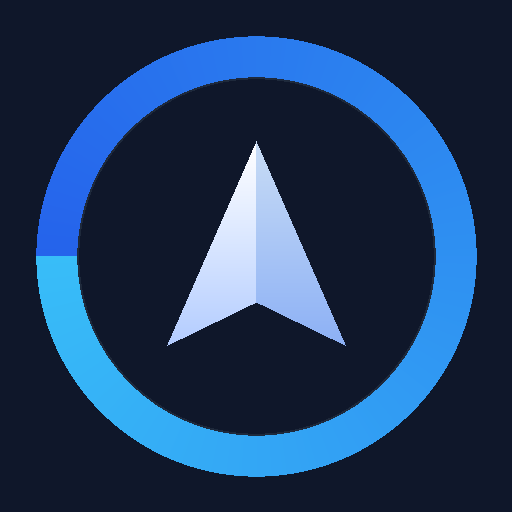
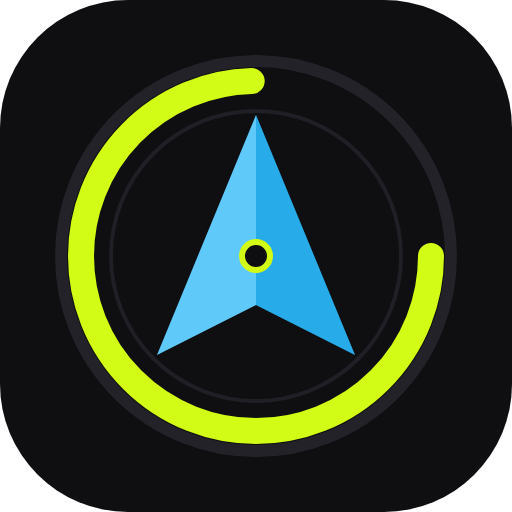
fix: resolve geocoding search failures, add Nominatim proxy, fix prematurely rendered no-results state, and update PWA assets

diff --git a/src/utils/osrm.js b/src/utils/osrm.js
@@ -1,55 +1,110 @@
 // OSRM Routing & Geocoding Service
 
 /**
- * Search locations using OpenStreetMap Nominatim or Photon
+ * Search locations using OpenStreetMap Nominatim and Photon with Indonesian fallback
  */
-export const searchPlaces = async (query) => {
+export const searchPlaces = async (query, userPosition = null) => {
   if (!query || query.trim().length < 2) return [];
 
-  try {
-    // Photon is fast and has generous CORS policies
-    const response = await fetch(
-      `https://photon.komoot.io/api/?q=${encodeURIComponent(query)}&limit=5&lang=id`,
-      { signal: AbortSignal.timeout(6000) }
-    );
-    if (!response.ok) throw new Error("Search failed");
-    const data = await response.json();
+  const rawQuery = query.trim();
+  const cleanQuery = rawQuery.replace(/^(perumahan|komplek|kompleks|cluster|residence)\s+/i, "").trim();
 
-    return (data.features || []).map((f) => {
-      const p = f.properties || {};
-      const name = p.name || p.street || "Lokasi";
-      const details = [p.district, p.city, p.state, p.country].filter(Boolean).join(", ");
-      const [lon, lat] = f.geometry.coordinates;
-      return {
-        id: `${lat}-${lon}-${name}`,
-        name: name,
-        description: details || name,
-        lat: lat,
-        lng: lon,
-      };
-    });
-  } catch (error) {
-    console.warn("Photon search failed, falling back to Nominatim:", error);
+  // Try multiple variations if needed (e.g. "patraland" -> "patra land")
+  const queryCandidates = [rawQuery];
+  if (cleanQuery && cleanQuery !== rawQuery) {
+    queryCandidates.push(cleanQuery);
+  }
+  // If single long word with 'land' suffix, also add space variant
+  if (!rawQuery.includes(" ") && rawQuery.toLowerCase().endsWith("land")) {
+    const spaced = rawQuery.slice(0, -4) + " land";
+    if (!queryCandidates.includes(spaced)) queryCandidates.push(spaced);
+  }
+
+  for (const q of queryCandidates) {
+    // 1. Try Nominatim via local Vite proxy (passes User-Agent and avoids CORS)
+    try {
+      const proxyRes = await fetch(
+        `/api/nominatim/search?format=json&q=${encodeURIComponent(
+          q
+        )}&limit=6&countrycodes=id&addressdetails=1`,
+        { signal: AbortSignal.timeout(5000) }
+      );
+      if (proxyRes.ok) {
+        const data = await proxyRes.json();
+        if (Array.isArray(data) && data.length > 0) {
+          return data.map((item) => ({
+            id: `nom-${item.place_id}`,
+            name: item.display_name.split(",")[0],
+            description: item.display_name,
+            lat: parseFloat(item.lat),
+            lng: parseFloat(item.lon),
+          }));
+        }
+      }
+    } catch {
+      // Proxy failed or not on dev server, proceed to external endpoints
+    }
+
+    // 2. Try direct Nominatim
     try {
       const nomRes = await fetch(
         `https://nominatim.openstreetmap.org/search?format=json&q=${encodeURIComponent(
-          query
-        )}&limit=5&countrycodes=id`,
-        { signal: AbortSignal.timeout(6000) }
+          q
+        )}&limit=6&countrycodes=id&addressdetails=1`,
+        { signal: AbortSignal.timeout(5000) }
       );
-      const nomData = await nomRes.json();
-      return nomData.map((item) => ({
-        id: item.place_id,
-        name: item.display_name.split(",")[0],
-        description: item.display_name,
-        lat: parseFloat(item.lat),
-        lng: parseFloat(item.lon),
-      }));
-    } catch (e) {
-      console.error("All geocoding services failed:", e);
-      return [];
+      if (nomRes.ok) {
+        const nomData = await nomRes.json();
+        if (Array.isArray(nomData) && nomData.length > 0) {
+          return nomData.map((item) => ({
+            id: `nom-${item.place_id}`,
+            name: item.display_name.split(",")[0],
+            description: item.display_name,
+            lat: parseFloat(item.lat),
+            lng: parseFloat(item.lon),
+          }));
+        }
+      }
+    } catch {
+      // Continue to Photon
+    }
+
+    // 3. Try Photon Komoot (without invalid lang parameter, bounded to Indonesia)
+    try {
+      let photonUrl = `https://photon.komoot.io/api/?q=${encodeURIComponent(
+        q
+      )}&limit=6&bbox=95.0,-11.0,141.0,6.0`;
+      if (userPosition && userPosition.lat && userPosition.lng) {
+        photonUrl += `&lat=${userPosition.lat}&lon=${userPosition.lng}`;
+      }
+
+      const photonRes = await fetch(photonUrl, { signal: AbortSignal.timeout(5000) });
+      if (photonRes.ok) {
+        const pData = await photonRes.json();
+        if (pData.features && pData.features.length > 0) {
+          return pData.features.map((f) => {
+            const p = f.properties || {};
+            const name = p.name || p.street || "Lokasi";
+            const details = [p.street, p.district, p.city, p.state, p.country]
+              .filter(Boolean)
+              .join(", ");
+            const [lon, lat] = f.geometry.coordinates;
+            return {
+              id: `pho-${lat}-${lon}-${name}`,
+              name: name,
+              description: details || name,
+              lat: lat,
+              lng: lon,
+            };
+          });
+        }
+      }
+    } catch {
+      // Continue next query candidate
     }
   }
+
+  return [];
 };
 
 /**

diff --git a/src/components/SearchModal.jsx b/src/components/SearchModal.jsx
@@ -7,12 +7,14 @@ export default function SearchModal({
   isOpen,
   onClose,
   onSelectDestination,
+  userPosition = null,
   lang = "id",
   theme = "light",
 }) {
   const [query, setQuery] = useState("");
   const [results, setResults] = useState([]);
   const [loading, setLoading] = useState(false);
+  const [hasSearched, setHasSearched] = useState(false);
 
   const isDark = theme === "dark";
 
@@ -32,7 +34,8 @@ export default function SearchModal({
     if (!query.trim()) return;
 
     setLoading(true);
-    const data = await searchPlaces(query);
+    setHasSearched(true);
+    const data = await searchPlaces(query, userPosition);
     setResults(data);
     setLoading(false);
   };
@@ -63,7 +66,10 @@ export default function SearchModal({
               type="text"
               autoFocus
               value={query}
-              onChange={(e) => setQuery(e.target.value)}
+              onChange={(e) => {
+                setQuery(e.target.value);
+                setHasSearched(false);
+              }}
               placeholder={t("searchPlaceholder", lang)}
               className={`w-full rounded-xl pl-9 pr-3 py-2.5 text-sm border transition ${
                 isDark
@@ -98,7 +104,7 @@ export default function SearchModal({
 
         {/* Results List */}
         <div
-          className={`max-h-60 overflow-y-auto space-y-1 divide-y ${
+          className={`max-h-64 overflow-y-auto space-y-1 divide-y ${
             isDark ? "divide-[#27272e]" : "divide-slate-100"
           }`}
         >
@@ -136,18 +142,29 @@ export default function SearchModal({
                 </div>
               </button>
             ))
-          ) : query && !loading ? (
-            <p
-              className={`text-center text-xs py-6 ${
-                isDark ? "text-zinc-400" : "text-slate-500"
-              }`}
-            >
-              {t("noPlacesFound", lang)}
-            </p>
+          ) : hasSearched && !loading ? (
+            <div className="py-5 px-3 text-center space-y-2">
+              <p
+                className={`text-xs font-semibold ${
+                  isDark ? "text-zinc-300" : "text-slate-700"
+                }`}
+              >
+                {t("noPlacesFound", lang)}
+              </p>
+              <p
+                className={`text-[11px] leading-relaxed ${
+                  isDark ? "text-zinc-400" : "text-slate-500"
+                }`}
+              >
+                {lang === "en"
+                  ? "Tip: Private housing complexes may not yet be tagged in OpenStreetMap. Try searching by main road, subdistrict name, or tap directly on the map."
+                  : "Tips: Kompleks perumahan baru mungkin belum ditandai di OpenStreetMap. Coba cari nama jalan utama, kelurahan/kecamatan terdekat, atau langsung ketuk titik di peta."}
+              </p>
+            </div>
           ) : (
             <div
               className={`text-center py-6 text-xs ${
-                isDark ? "text-slate-400" : "text-slate-500"
+                isDark ? "text-zinc-400" : "text-slate-500"
               }`}
             >
               <p>{t("searchHint", lang)}</p>

diff --git a/index.html b/index.html
@@ -11,7 +11,7 @@
     <meta name="apple-mobile-web-app-title" content="Eggel Nav" />
     <meta name="application-name" content="Eggel Nav" />
     <meta name="mobile-web-app-capable" content="yes" />
-    <meta name="theme-color" content="#0f172a" />
+    <meta name="theme-color" content="#0f0f12" />
     <meta
       name="description"
       content="Turn-by-turn motorcycle navigation on Eggel Tempo 4 Active smartwatch via Telegram and iOS ANCS"
@@ -23,7 +23,7 @@
 
     <title>Eggel Nav - Smartwatch Navigation</title>
   </head>
-  <body class="bg-slate-900 text-white select-none overscroll-none">
+  <body class="bg-[#0f0f12] text-white select-none overscroll-none">
     <div id="root"></div>
     <script type="module" src="/src/main.jsx"></script>
   </body>

diff --git a/vite.config.js b/vite.config.js
@@ -9,6 +9,16 @@ export default defineConfig({
     tailwindcss()
   ],
   server: {
-    host: true
+    host: true,
+    proxy: {
+      '/api/nominatim': {
+        target: 'https://nominatim.openstreetmap.org',
+        changeOrigin: true,
+        rewrite: (path) => path.replace(/^\/api\/nominatim/, ''),
+        headers: {
+          'User-Agent': 'EggelNav/1.0 (motorcycle-smartwatch-navigation)',
+        },
+      },
+    },
   }
 })

diff --git a/src/main.jsx b/src/main.jsx
@@ -10,7 +10,7 @@ createRoot(document.getElementById('root')).render(
 )
 
 // Register service worker for PWA support
-if ("serviceWorker" in navigator && !window.location.host.includes("localhost:517")) {
+if ("serviceWorker" in navigator) {
   window.addEventListener("load", () => {
     navigator.serviceWorker.register("/sw.js").catch((err) => {
       console.warn("ServiceWorker registration failed:", err);

diff --git a/src/App.jsx b/src/App.jsx
@@ -932,6 +932,7 @@ export default function App() {
         isOpen={isSearchOpen}
         onClose={() => setIsSearchOpen(false)}
         onSelectDestination={handleSelectDestination}
+        userPosition={userPosition}
         lang={lang}
         theme={theme}
       />
